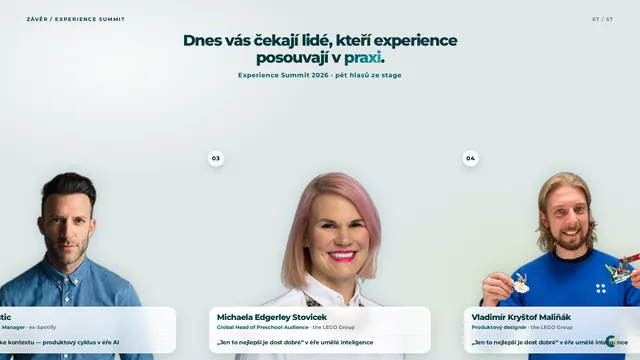
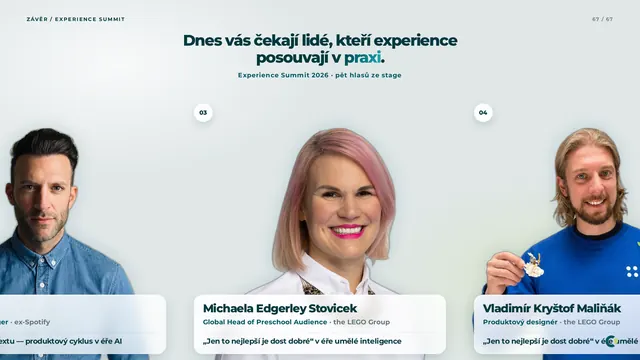
Speakers: mid-size cutouts and larger projector-readable type
Bump portraits between the huge and tiny sizes; enlarge name/role/
topic for stage readability. Keep bottom flush and right-edge enter.

diff --git a/src/styles/finale-b.css b/src/styles/finale-b.css
@@ -137,7 +137,7 @@
   top: 0;
   display: flex;
   align-items: flex-end;
-  gap: 44px;
+  gap: 40px;
   margin: 0;
   padding: 0;
   will-change: transform;
@@ -159,9 +159,9 @@
   bottom: 0;
   transform: translateX(-50%);
   height: auto;
-  max-height: 68%;
+  max-height: 84%;
   width: auto;
-  max-width: 92%;
+  max-width: 98%;
   margin: 0;
   padding: 0;
   object-fit: contain;
@@ -174,33 +174,33 @@
 }
 .sp-n {
   position: absolute;
-  left: 24px;
+  left: 22px;
   top: auto;
-  bottom: 70%;
+  bottom: 86%;
   z-index: 3;
-  width: 48px;
-  height: 48px;
+  width: 56px;
+  height: 56px;
   display: grid;
   place-items: center;
   border-radius: 50%;
   background: rgba(255, 255, 255, 0.94);
   color: var(--text-deep);
-  font-size: 17px;
+  font-size: 18px;
   font-weight: 800;
   letter-spacing: 0.04em;
   box-shadow: 0 10px 24px rgba(3, 56, 61, 0.16);
 }
 .sp-copy {
   position: absolute;
-  left: 28px;
-  right: 28px;
-  bottom: 20px;
+  left: 22px;
+  right: 22px;
+  bottom: 18px;
   z-index: 3;
   display: flex;
   flex-direction: column;
-  gap: 6px;
-  padding: 18px 22px 20px;
-  border-radius: 24px;
+  gap: 8px;
+  padding: 22px 26px 24px;
+  border-radius: 26px;
   border: 1px solid rgba(255, 255, 255, 0.88);
   background: linear-gradient(165deg, rgba(255, 255, 255, 0.92), rgba(255, 255, 255, 0.72));
   box-shadow:
@@ -211,27 +211,27 @@
   text-align: left;
 }
 .sp-name {
-  font-size: 24px;
+  font-size: 34px;
   font-weight: 800;
-  letter-spacing: -0.04em;
-  line-height: 1.12;
+  letter-spacing: -0.045em;
+  line-height: 1.1;
   color: var(--text-deep);
 }
 .sp-role {
-  font-size: 15px;
+  font-size: 20px;
   font-weight: 700;
-  line-height: 1.35;
+  line-height: 1.3;
   color: var(--teal);
 }
 .sp-org { color: var(--muted); font-weight: 650; }
 .sp-topic {
-  margin-top: 8px;
-  padding-top: 10px;
+  margin-top: 10px;
+  padding-top: 12px;
   border-top: 1px solid rgba(0, 88, 96, 0.12);
-  font-size: 17px;
-  font-weight: 650;
-  letter-spacing: -0.02em;
-  line-height: 1.28;
+  font-size: 22px;
+  font-weight: 700;
+  letter-spacing: -0.025em;
+  line-height: 1.25;
   color: var(--text-deep);
 }
 @media (prefers-reduced-motion: reduce) {

diff --git a/src/scenes/finale/SpeakersEnd.tsx b/src/scenes/finale/SpeakersEnd.tsx
@@ -64,8 +64,8 @@ const SPEAKERS = [
 ] as const;
 
 /** Wide enough for Kryštof’s arms + LEGO at full cutout aspect. */
-const CARD_W = 720;
-const GAP = 44;
+const CARD_W = 800;
+const GAP = 40;
 const STRIDE = CARD_W + GAP;
 const LOOP_DURATION = 48; // slightly slower with 5 speakers
 
